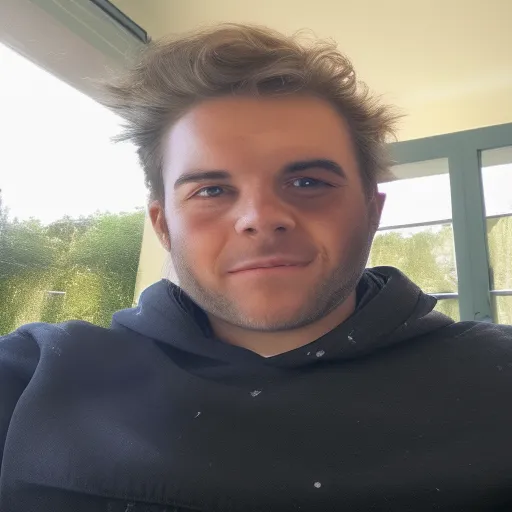
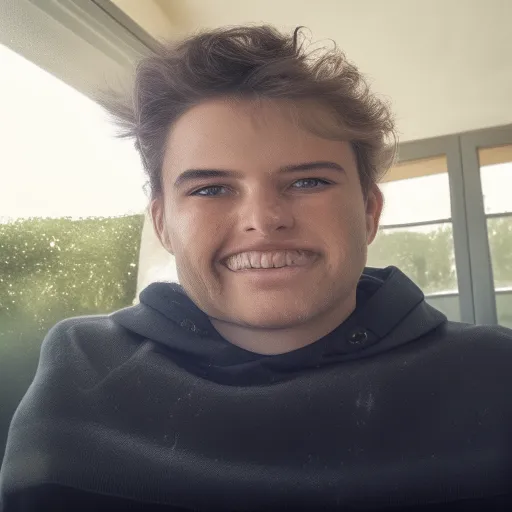
featured image

diff --git a/enhance_image.py b/enhance_image.py
@@ -35,7 +35,7 @@ init_image = Image.open(image_path).convert("RGB")
 prompt = "With blonde hair, and smiling. The face must stay the same."
 
 # pass prompt and image to pipeline
-image = pipeline(prompt, image=init_image, strength=0.1, guidance_scale=0.1).images[0]
+image = pipeline(prompt, image=init_image, strength=0.1, guidance_scale=0.0).images[0]
 # Save the upscaled and resized image as a .webp file
 image.save("featured_image.webp", format="WEBP")
 #make_image_grid([init_image, image], rows=1, cols=2)
